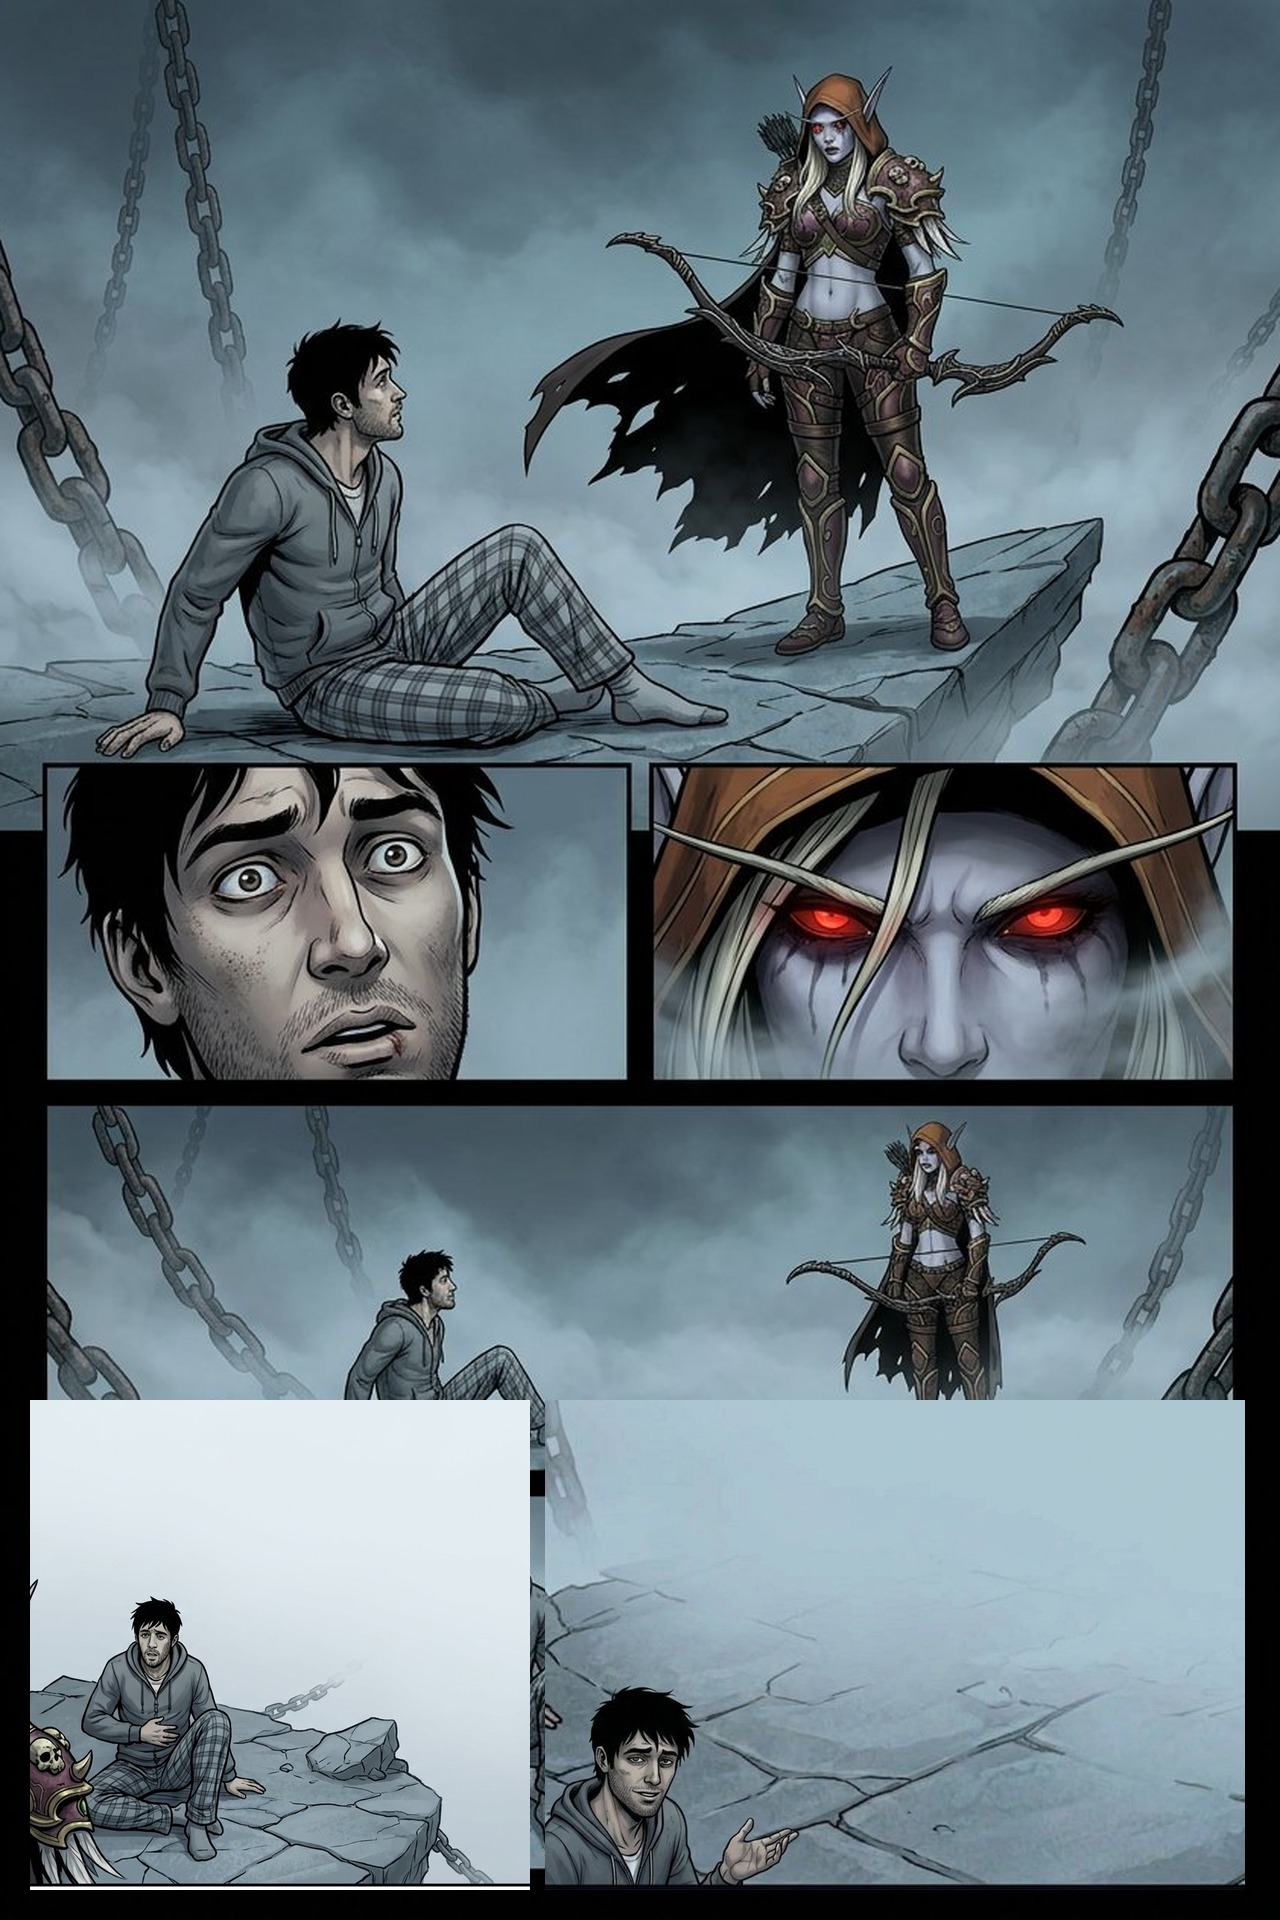
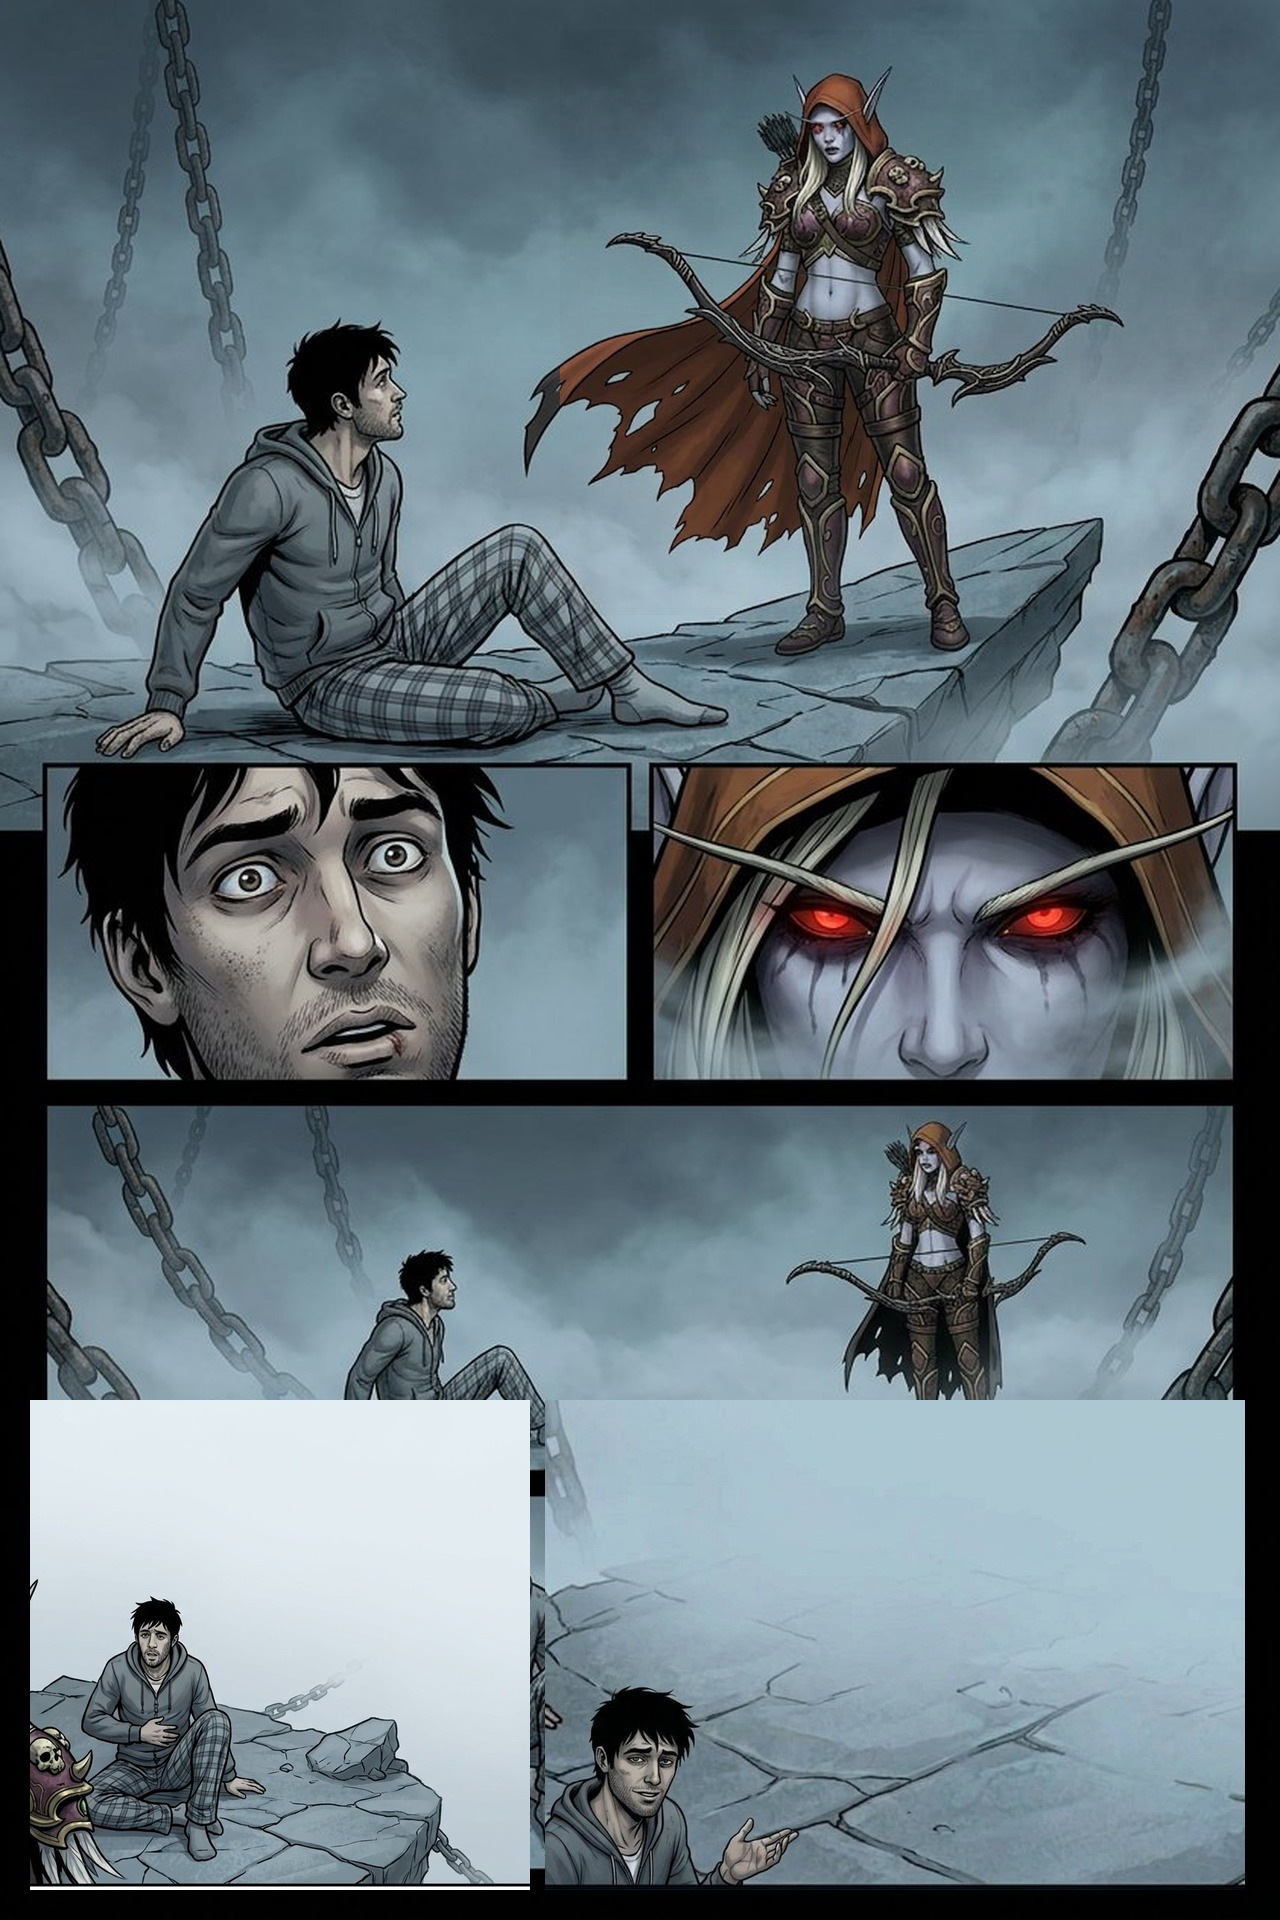
v28 (20260911-28): capa da Sylvanas em rust nos 5 quadros divergentes
- P4q0, P5q0, P5q3, P6q0, P6q1: capa recolorida de preta para marrom-rust
  (igual ao capuz), com preservação de pose/composição (edit assistido,
  conferência antes|depois, paste restrito ao retângulo do quadro)
- Fora das regiões: idêntico (diff ~0); arte e lettering v27 preservados
- valida3: 0 violações; P4–P6 re-renderizados e aprovados

Changed region(s): [[0.4375, 0.125, 0.625, 0.2812], [0.6562, 0.1875, 0.6875, 0.2812], [0.6875, 0.125, 0.7188, 0.1875]]

diff --git a/livro continua/site/hq/index.html b/livro continua/site/hq/index.html
@@ -12,7 +12,7 @@
 <link rel="preconnect" href="https://fonts.googleapis.com">
 <link rel="preconnect" href="https://fonts.gstatic.com" crossorigin>
 <link href="https://fonts.googleapis.com/css2?family=Bangers&family=Oswald:wght@400;500;600;700&family=Spectral:ital,wght@1,400;1,500;1,600" rel="stylesheet">
-<link rel="stylesheet" href="hq.css?v=20260911-27">
+<link rel="stylesheet" href="hq.css?v=20260911-28">
 </head>
 <body>
 
@@ -52,9 +52,9 @@
 <div class="dots" id="dots"></div>
 <div class="indicador" id="ind"></div>
 
-<script src="layout.js?v=20260911-27"></script>
-<script src="data.js?v=20260911-27"></script>
-<script src="leitor.js?v=20260911-27"></script>
+<script src="layout.js?v=20260911-28"></script>
+<script src="data.js?v=20260911-28"></script>
+<script src="leitor.js?v=20260911-28"></script>
 <script>
 document.getElementById("capaBt").addEventListener("click",()=>{
   document.getElementById("capa").classList.remove("oculta");

diff --git a/livro continua/site/hq/ler.html b/livro continua/site/hq/ler.html
@@ -12,7 +12,7 @@
 <link rel="preconnect" href="https://fonts.googleapis.com">
 <link rel="preconnect" href="https://fonts.gstatic.com" crossorigin>
 <link href="https://fonts.googleapis.com/css2?family=Bangers&family=Oswald:wght@400;500;600;700&family=Spectral:ital,wght@1,400;1,500;1,600" rel="stylesheet">
-<link rel="stylesheet" href="hq.css?v=20260911-27">
+<link rel="stylesheet" href="hq.css?v=20260911-28">
 </head>
 <body>
 
@@ -52,9 +52,9 @@
 <div class="dots" id="dots"></div>
 <div class="indicador" id="ind"></div>
 
-<script src="layout.js?v=20260911-27"></script>
-<script src="data.js?v=20260911-27"></script>
-<script src="leitor.js?v=20260911-27"></script>
+<script src="layout.js?v=20260911-28"></script>
+<script src="data.js?v=20260911-28"></script>
+<script src="leitor.js?v=20260911-28"></script>
 <script>
 document.getElementById("capaBt").addEventListener("click",()=>{
   document.getElementById("capa").classList.remove("oculta");

diff --git a/livro continua/site/hq/leitor.js b/livro continua/site/hq/leitor.js
@@ -6,7 +6,7 @@
    Rabichos são desenhados sobre os balões REAIS medidos no DOM.
    ============================================================ */
 const PW = 1280, PH = 1920;
-const VER = "20260911-27";
+const VER = "20260911-28";
 const NS = "http://www.w3.org/2000/svg";
 const COM_RABICHO = ["fala","grito","rouca","sussurro"];
 
